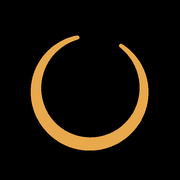
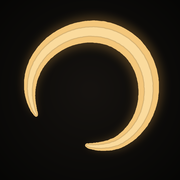
Add files via upload

diff --git a/index.html b/index.html
@@ -73,8 +73,8 @@ nav button.on .ico{color:var(--accent);transform:scale(1.06)}
 /* ════════ ENSO: l'unico oggetto, sospeso nel nero ════════ */
 #mic-wrap{display:flex;flex-direction:column;align-items:center;padding:40px 0 28px;position:relative}
 .mist,.ripple,#seal-dot{display:none}   /* via tutti gli orpelli intorno */
-#mic{width:236px;height:236px;border:none;background:transparent;position:relative}
-#mic svg{width:100%;height:100%;display:block;overflow:visible}
+#mic{width:236px;height:236px;border:none;background:transparent;position:relative;touch-action:none}
+#mic svg{width:100%;height:100%;display:block;overflow:visible;position:relative;z-index:1}
 .ring-track{fill:none;stroke:rgba(245,242,234,.07);stroke-width:2.5}
 .enso{
   fill:none;stroke:var(--accent);stroke-width:2.5;stroke-linecap:round;
@@ -99,6 +99,13 @@ nav button.on .ico{color:var(--accent);transform:scale(1.06)}
 #mic.rec .mic-glyph{fill:var(--ember);animation:recpulse 1.5s ease-in-out infinite}
 @keyframes listen{0%{stroke-dashoffset:540}100%{stroke-dashoffset:0}}
 @keyframes recpulse{0%,100%{opacity:.7}50%{opacity:1}}
+/* ── COSTOLA voice-mode: mentre tieni premuto, il cerchio respira e manda un'onda calma, come quando ascolto ── */
+#mic.rec::before{content:'';position:absolute;inset:9%;border-radius:50%;z-index:0;pointer-events:none;
+  background:radial-gradient(circle,rgba(232,168,76,.16),transparent 66%);animation:listenHalo 2.4s ease-in-out infinite}
+#mic.rec::after{content:'';position:absolute;inset:13%;border-radius:50%;z-index:0;pointer-events:none;
+  border:1.5px solid rgba(232,168,76,.4);animation:listenPing 2.4s ease-out infinite}
+@keyframes listenHalo{0%,100%{opacity:.45;transform:scale(.95)}50%{opacity:.95;transform:scale(1.05)}}
+@keyframes listenPing{0%{opacity:.5;transform:scale(.92)}70%{opacity:0;transform:scale(1.45)}100%{opacity:0;transform:scale(1.45)}}
 
 /* ── sigillo: il cerchio si chiude pieno con un soffio di luce ── */
 #mic.sealed .enso{stroke-dashoffset:0 !important;stroke-width:3.5;animation:sealglow 1.4s ease-out}
@@ -525,7 +532,7 @@ body.shake,body.shake-big{animation:none}  /* via lo shake: stona col minimalism
           </svg>
           <div id="seal-dot"></div>
         </button>
-        <div id="mic-label">Tocca il cerchio e rilascia</div>
+        <div id="mic-label">Tieni premuto il cerchio per parlare</div>
         <div id="ring-count"></div>
         <div id="flow" class="flow"></div>
         <div id="live"></div>
@@ -938,7 +945,7 @@ function pruneForSpace(state){
 /* ======================================================================
    STATO E UTILITÀ
    ====================================================================== */
-const APP_VERSION='v59 · 2026-06-25';
+const APP_VERSION='v60S · 2026-06-25';
 /* ── rete di sicurezza: un errore isolato non deve abbattere l'app o sporcare la console ── */
 try{
   window.addEventListener('error',function(e){ try{ if(e&&e.message&&/ResizeObserver/.test(e.message)) return; }catch(_){} });
@@ -2026,7 +2033,7 @@ function scrollToSoft(sel){
   }catch(_){}
 }
 function handleFlowAction(action,extra){
-  if(action==='speak'){ showPane('oggi'); try{ micBtn.click(); }catch(_){} return; }  /* sincrono: preserva il gesto utente, indispensabile per avviare il microfono su iOS */
+  if(action==='speak'){ showPane('oggi'); setTimeout(()=>{ try{ micBtn.scrollIntoView({behavior:'smooth',block:'center'}); }catch(_){} try{ micLabel.textContent='Tieni premuto il cerchio per parlare'; }catch(_){} },120); return; }  /* press-to-rec: non si può "premere" via codice, quindi guido al gesto */
   if(action==='distill'){ showPane('oggi'); setTimeout(()=>{ const b=document.querySelector('#btn-save'); if(b&&!b.disabled) b.click(); },80); return; }
   if(action==='settings'){ showPane('impostazioni'); setTimeout(()=>{ const k=document.querySelector('#apikey'); if(k) k.focus(); },120); return; }
   if(action==='tasks'){ showPane('impostazioni'); setTimeout(()=>{ const t=document.querySelector('#new-task-txt'); if(t) t.focus(); },120); return; }
@@ -2162,7 +2169,7 @@ function startRec(){
     /* il microfono è DAVVERO attivo: solo ora invitiamo a parlare ed entriamo in rosso */
     if(!recording) return;
     micBtn.classList.remove('arming'); micBtn.classList.add('rec');
-    micLabel.textContent='Rilascia… tocca di nuovo per fermare';
+    micLabel.textContent='Parla… rilascia per fermare';
     renderFlow();
     sMicOn(); haptic(); acquireWake();
     try{ if(S.settings.music) MUSIC.recDuck(true); }catch(_){}  /* la musica scende: la voce resta pulita per il riconoscimento */
@@ -2187,7 +2194,7 @@ function startRec(){
   };
   rec.onend=()=>{
     committedText+=sessionFinal; sessionFinal=''; interimText='';
-    if(recording){ try{rec.start()}catch(_){ recording=false; micBtn.classList.remove('rec','arming'); micLabel.textContent='Microfono interrotto. Tocca per riprendere.'; } }
+    if(recording){ try{rec.start()}catch(_){ recording=false; micBtn.classList.remove('rec','arming'); micLabel.textContent='Microfono interrotto. Tieni premuto per riprendere.'; } }
   };
   recording=true;
   /* stato 'in avvio': enso pulsa neutro, l'utente NON è invitato a parlare finché onstart non scatta */
@@ -2217,18 +2224,27 @@ function stopRec(){
     updateRing();
   }
 }
-let micBusy=false; /* anti-doppio-tap durante l'avvio del microfono */
-micBtn.addEventListener('click',()=>{
-  if(!SR){
-    const txt=live.textContent.trim();
-    if(txt) document.querySelector('#confirm-row').classList.remove('hidden');
-    return;
-  }
-  if(micBusy) return;            /* tap ravvicinati ignorati: niente stato incoerente */
-  micBusy=true;
-  setTimeout(()=>{ micBusy=false; }, 450);
-  recording?stopRec():startRec();
+/* ── PRESS-TO-REC (stile WhatsApp): tieni premuto il cerchio per dettare, rilascia per fermare.
+     pointer-capture: il gesto resta legato al mic anche se il dito si sposta. ── */
+let _holdActive=false,_pressT0=0;
+micBtn.addEventListener('pointerdown',e=>{
+  if(!SR){ const txt=live.textContent.trim(); if(txt) document.querySelector('#confirm-row').classList.remove('hidden'); return; }
+  if(_holdActive) return;
+  e.preventDefault();
+  try{ micBtn.setPointerCapture(e.pointerId); }catch(_){}
+  _holdActive=true; _pressT0=Date.now();
+  if(!recording) startRec();
 });
+function _endHold(e){
+  if(!_holdActive) return;
+  _holdActive=false;
+  try{ micBtn.releasePointerCapture(e.pointerId); }catch(_){}
+  const held=Date.now()-_pressT0;
+  if(recording) stopRec();
+  if(held<350) micLabel.textContent='Tieni premuto il cerchio per parlare';   /* tap troppo breve: era un errore */
+}
+micBtn.addEventListener('pointerup',_endHold);
+micBtn.addEventListener('pointercancel',_endHold);
 document.querySelector('#btn-discard').onclick=resetCapture;
 /* domanda priorità: se l'IA rileva quest urgenti/importanti, l'utente conferma */
 let pendingPrioIds=[];
@@ -2242,14 +2258,14 @@ function maybeAskPriority(bornIds){
 }
 document.querySelector('#btn-prio-yes').onclick=()=>{
   document.querySelector('#prio-row').classList.add('hidden');
-  pendingPrioIds=[]; micLabel.textContent='Tocca il cerchio e rilascia';
+  pendingPrioIds=[]; micLabel.textContent='Tieni premuto il cerchio per parlare';
   haptic();
 };
 document.querySelector('#btn-prio-no').onclick=()=>{
   pendingPrioIds.forEach(id=>{ const q=S.quests.find(x=>x.id===id); if(q) q.prio=3; });
   save(); render();
   document.querySelector('#prio-row').classList.add('hidden');
-  pendingPrioIds=[]; micLabel.textContent='Tocca il cerchio e rilascia';
+  pendingPrioIds=[]; micLabel.textContent='Tieni premuto il cerchio per parlare';
   toast('Priorità azzerate: tutte normali');
 };
 function resetCapture(){
@@ -2258,7 +2274,7 @@ function resetCapture(){
   if(!SR) live.classList.add('show');
   document.querySelector('#confirm-row').classList.add('hidden');
   document.querySelector('#prio-row').classList.add('hidden');
-  micLabel.textContent='Tocca il cerchio e rilascia';
+  micLabel.textContent='Tieni premuto il cerchio per parlare';
   updateRing();
   renderFlow();
 }
@@ -3340,10 +3356,14 @@ function scheduleReminders(){
    BACKUP
    ====================================================================== */
 document.querySelector('#btn-export').onclick=()=>{
-  const blob=new Blob([JSON.stringify(S,null,2)],{type:'application/json'});
-  const a=document.createElement('a');
-  a.href=URL.createObjectURL(blob); a.download='sentiero-backup-'+todayKey()+'.json'; a.click();
-  setTimeout(()=>URL.revokeObjectURL(a.href),5000);
+  try{
+    const blob=new Blob([JSON.stringify(S,null,2)],{type:'application/json'});
+    const a=document.createElement('a');
+    a.href=URL.createObjectURL(blob); a.download='sentiero-backup-'+todayKey()+'.json'; a.rel='noopener';
+    document.body.appendChild(a); a.click(); a.remove();
+    setTimeout(()=>URL.revokeObjectURL(a.href),5000);
+    toast('Backup pronto: salvalo in File o condividilo');
+  }catch(_){ toast('Esportazione non riuscita'); }
 };
 document.querySelector('#btn-import').onclick=()=>document.querySelector('#import-file').click();
 document.querySelector('#import-file').onchange=e=>{
@@ -3352,10 +3372,18 @@ document.querySelector('#import-file').onchange=e=>{
   r.onload=()=>{
     try{
       const parsed=JSON.parse(r.result);
+      if(!parsed||typeof parsed!=='object'||Array.isArray(parsed)) throw new Error('shape');
+      const nq=Array.isArray(parsed.quests)?parsed.quests.length:0;
+      const nd=Array.isArray(parsed.diary)?parsed.diary.length:0;
+      const when=parsed.lastSealed||parsed.lastDayInit||'';
+      const ok=confirm('Importare questo backup?\n\n'+nq+' quest · '+nd+' voci di diario'+(when?('\nUltimo giorno: '+when):'')+'\n\nSostituirà TUTTI i dati attuali su questo telefono. Operazione non annullabile.');
+      if(!ok){ toast('Import annullato: dati intatti'); return; }
+      try{ localStorage.setItem('sentiero-pre-import',JSON.stringify(S)); }catch(_){}   /* rete di sicurezza: lo stato precedente resta a disposizione */
       S=sanitizeState(parsed,defaultState);
       initDay(); save(); render(); toast('Backup importato');
-    }catch(_){ toast('File non valido'); }
+    }catch(_){ toast('File non valido o non leggibile'); }
   };
+  r.onerror=()=>{ toast('Lettura del file non riuscita'); };
   r.readAsText(f);
   e.target.value='';
 };

diff --git a/sw.js b/sw.js
@@ -1,4 +1,4 @@
-const CACHE = 'sentiero-v26';
+const CACHE = 'sentiero-v60s';
 const ASSETS = ['./audio/active_quest_v6_bandcore.wav', './audio/orchestra/atomic-tension.mp3', './audio/orchestra/sewer-tension.mp3', './audio/orchestra/daw-loop.mp3', './audio/orchestra/tribal-drive.mp3', './audio/orchestra/low-drums.mp3', './audio/orchestra/east-drums.mp3', './audio/orchestra/d-major.mp3', './audio/orchestra/f-major.mp3', './audio/orchestra/a-major.mp3', './audio/orchestra/b-major.mp3', './audio/orchestra/lead-guitar.mp3', './', './index.html', './manifest.json', './icon-192.png', './icon-512.png', './icon-180.png', 'splash-1290x2796.png', 'splash-1179x2556.png', 'splash-1170x2532.png', 'splash-1125x2436.png', 'splash-828x1792.png', 'splash-750x1334.png'];
 
 self.addEventListener('install', e => {